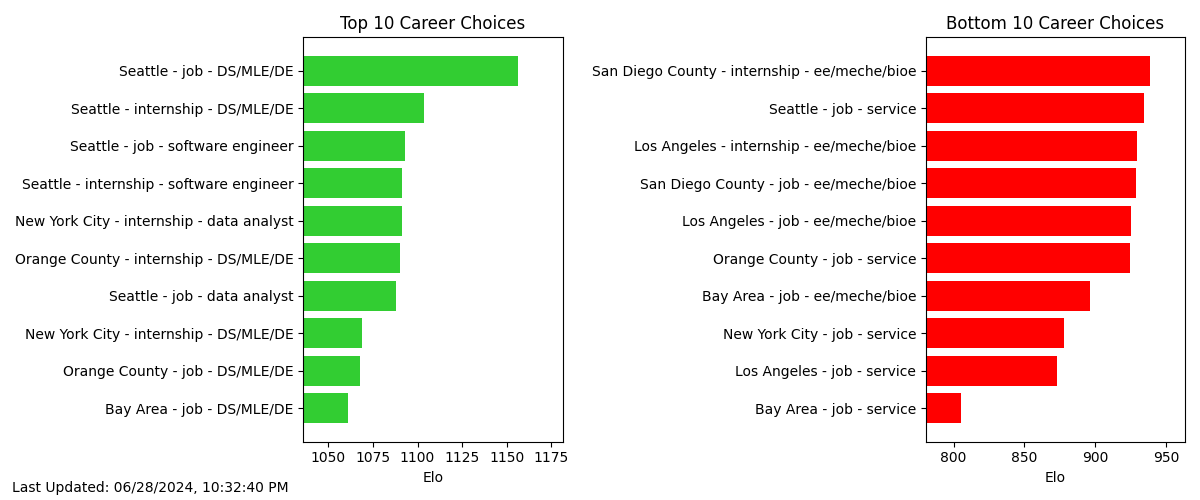
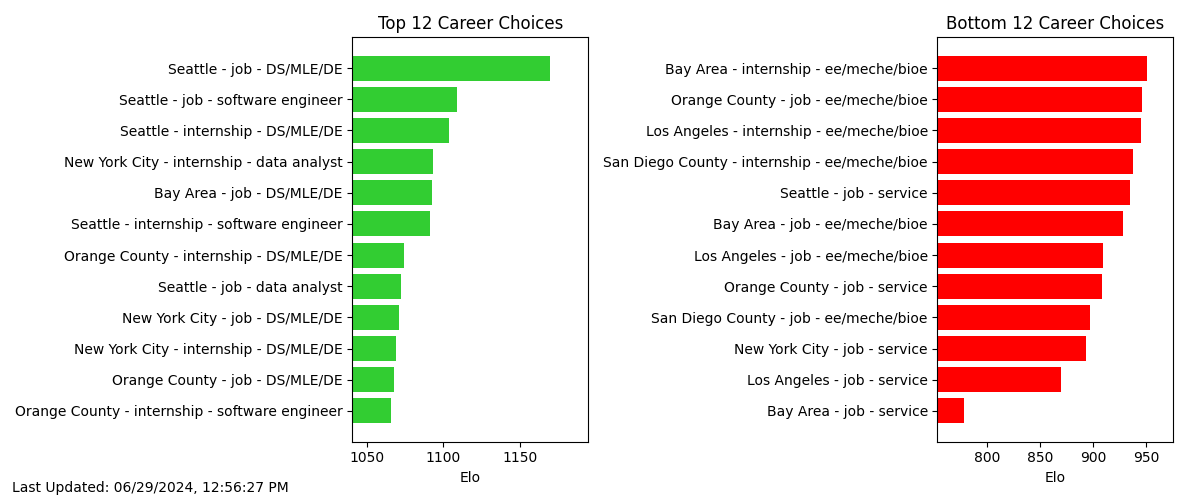
more entries with vis param chagnes

diff --git a/visualize.py b/visualize.py
@@ -11,7 +11,7 @@ def sort_dict_asc(dic: dict) -> list | list:
 	sorted_vals = [item[1] for item in sorted_dict]
 	return sorted_keys, sorted_vals
 
-def generate_two_barh(labels: str, values: float, k: int = 10, save_path: str ="summary_stats.png",
+def generate_two_barh(labels: str, values: float, k: int = 12, save_path: str ="summary_stats.png",
 	tick_rot: int = 0, xlim: int = 25) -> None:
 	
 	y_pos = np.arange(len(labels[-k:]))
@@ -38,7 +38,7 @@ def generate_two_barh(labels: str, values: float, k: int = 10, save_path: str ="
 
 	date, time =  datetime.now().strftime("%m/%d/%Y"), datetime.now().strftime("%I:%M:%S %p")
 
-	plt.figtext(0.01, 0.01, f"Last Updated: {date}, {time}", 
+	plt.figtext(0.01, 0.01, f"Last Updated: {date}, {time}",
          horizontalalignment='left', 
          verticalalignment='bottom')
 
